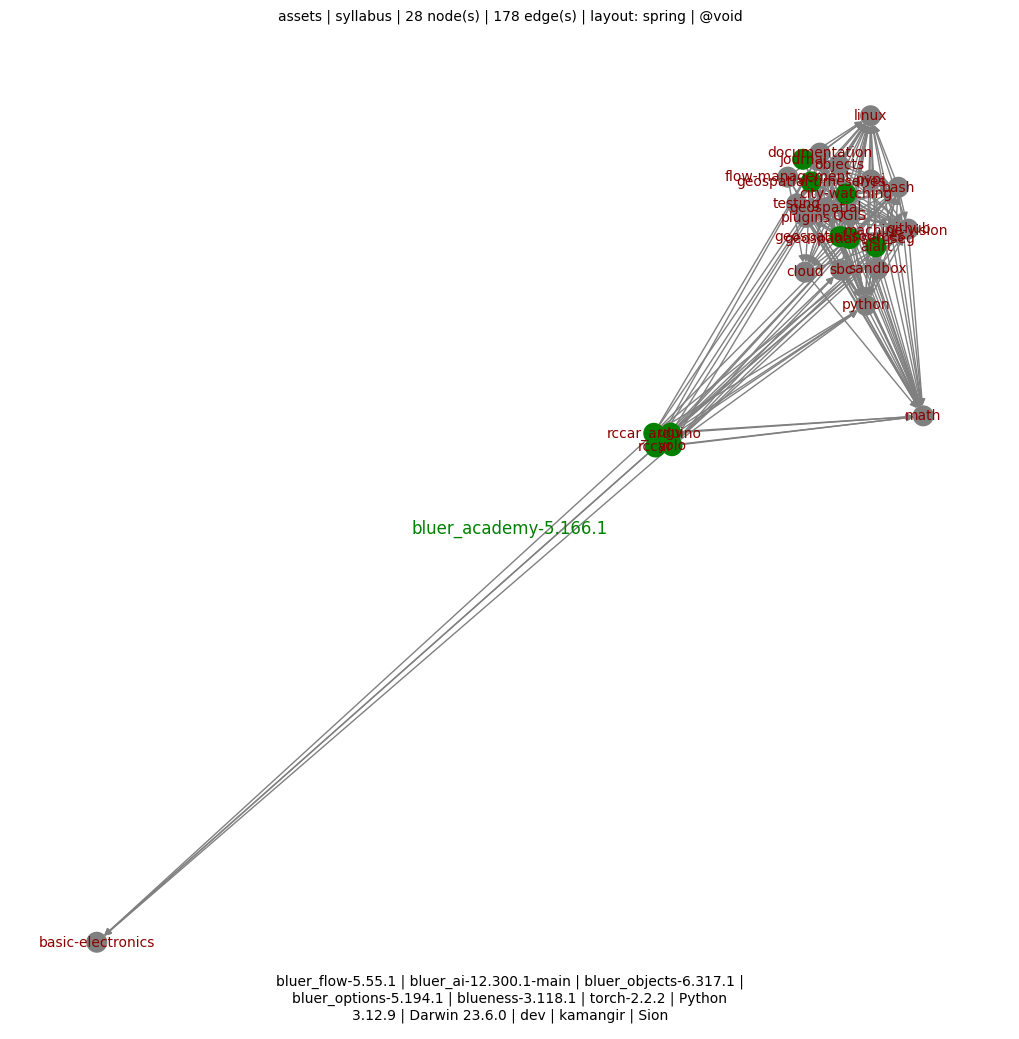
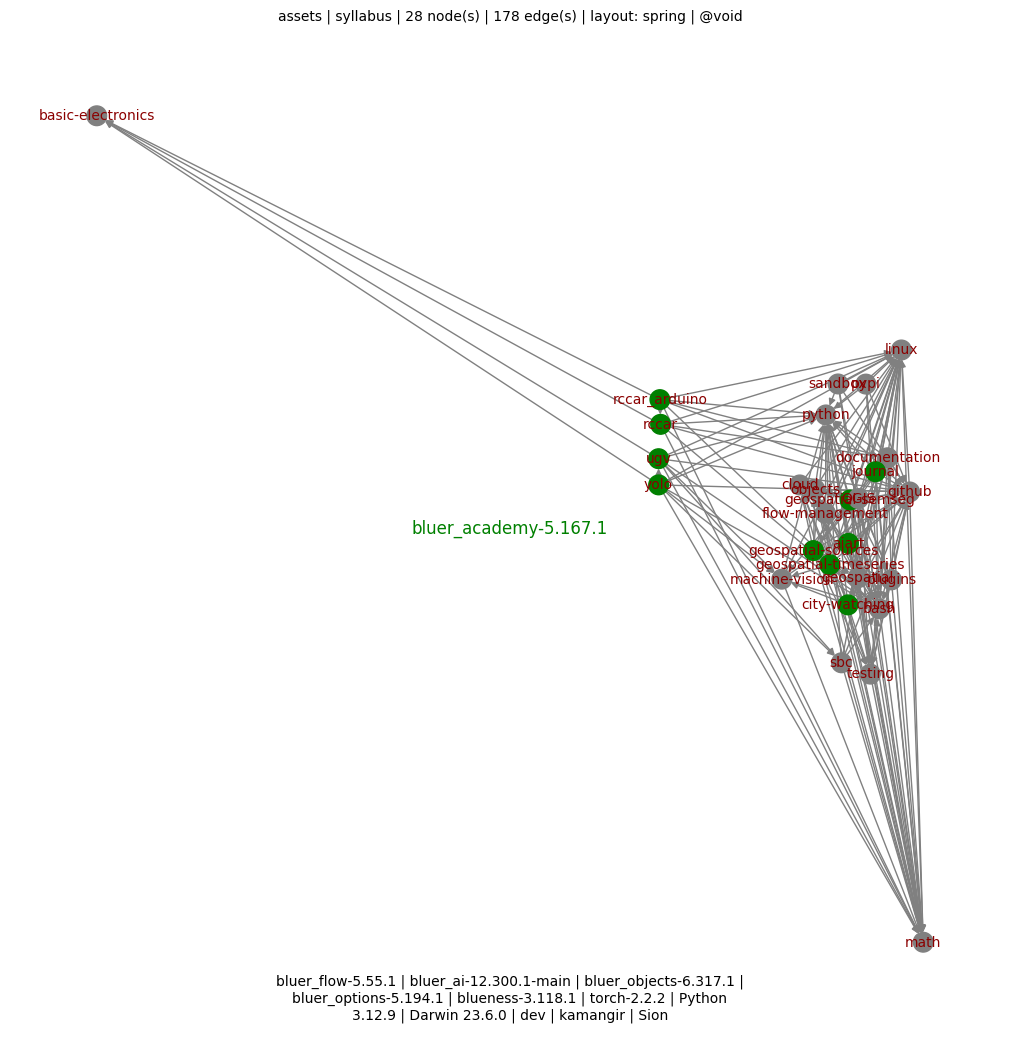
++ - kamangir/bolt#746

diff --git a/bluer_academy/academy/syllabus/machine_vision.py b/bluer_academy/academy/syllabus/machine_vision.py
@@ -1,3 +1,5 @@
+from bluer_objects.README.consts import assets_url
+
 from bluer_academy.academy.classes.topic import Topic
 from bluer_academy.academy.syllabus.consts import bluer_algo_blob
 
@@ -13,5 +15,9 @@ topic = Topic(
     ],
     duration=12,
     requires="python,bash",
-    items={},
+    items={
+        assets_url(
+            "roofAI/predict-00009.png"
+        ): "https://github.com/kamangir/roofai/tree/main/roofai/semseg"
+    },
 )

diff --git a/bluer_academy/__init__.py b/bluer_academy/__init__.py
@@ -4,7 +4,7 @@ ICON = "📐"
 
 DESCRIPTION = f"{ICON} an academy for practical AI in Iran."
 
-VERSION = "5.166.1"
+VERSION = "5.167.1"
 
 REPO_NAME = "bluer-academy"
 

diff --git a/README.md b/README.md
@@ -15,4 +15,4 @@ pip install bluer-academy
 
 [![pylint](https://github.com/kamangir/bluer-academy/actions/workflows/pylint.yml/badge.svg)](https://github.com/kamangir/bluer-academy/actions/workflows/pylint.yml) [![pytest](https://github.com/kamangir/bluer-academy/actions/workflows/pytest.yml/badge.svg)](https://github.com/kamangir/bluer-academy/actions/workflows/pytest.yml) [![bashtest](https://github.com/kamangir/bluer-academy/actions/workflows/bashtest.yml/badge.svg)](https://github.com/kamangir/bluer-academy/actions/workflows/bashtest.yml) [![PyPI version](https://img.shields.io/pypi/v/bluer-academy.svg)](https://pypi.org/project/bluer-academy/) [![PyPI - Downloads](https://img.shields.io/pypi/dd/bluer-academy)](https://pypistats.org/packages/bluer-academy)
 
-built by 🌀 [`bluer README`](https://github.com/kamangir/bluer-objects/tree/main/bluer_objects/README), based on 📐 [`bluer_academy-5.166.1`](https://github.com/kamangir/bluer-academy).
+built by 🌀 [`bluer README`](https://github.com/kamangir/bluer-objects/tree/main/bluer_objects/README), based on 📐 [`bluer_academy-5.167.1`](https://github.com/kamangir/bluer-academy).

diff --git a/bluer_academy/docs/academy/syllabus/machine-vision.md b/bluer_academy/docs/academy/syllabus/machine-vision.md
@@ -16,3 +16,6 @@ includes:
 
 ⏳ duration (hours): 12.0 - including requirements: 36.0
 
+|   |
+| --- |
+| [![image](https://github.com/kamangir/assets/raw/main/roofAI/predict-00009.png?raw=true)](https://github.com/kamangir/roofai/tree/main/roofai/semseg) |
